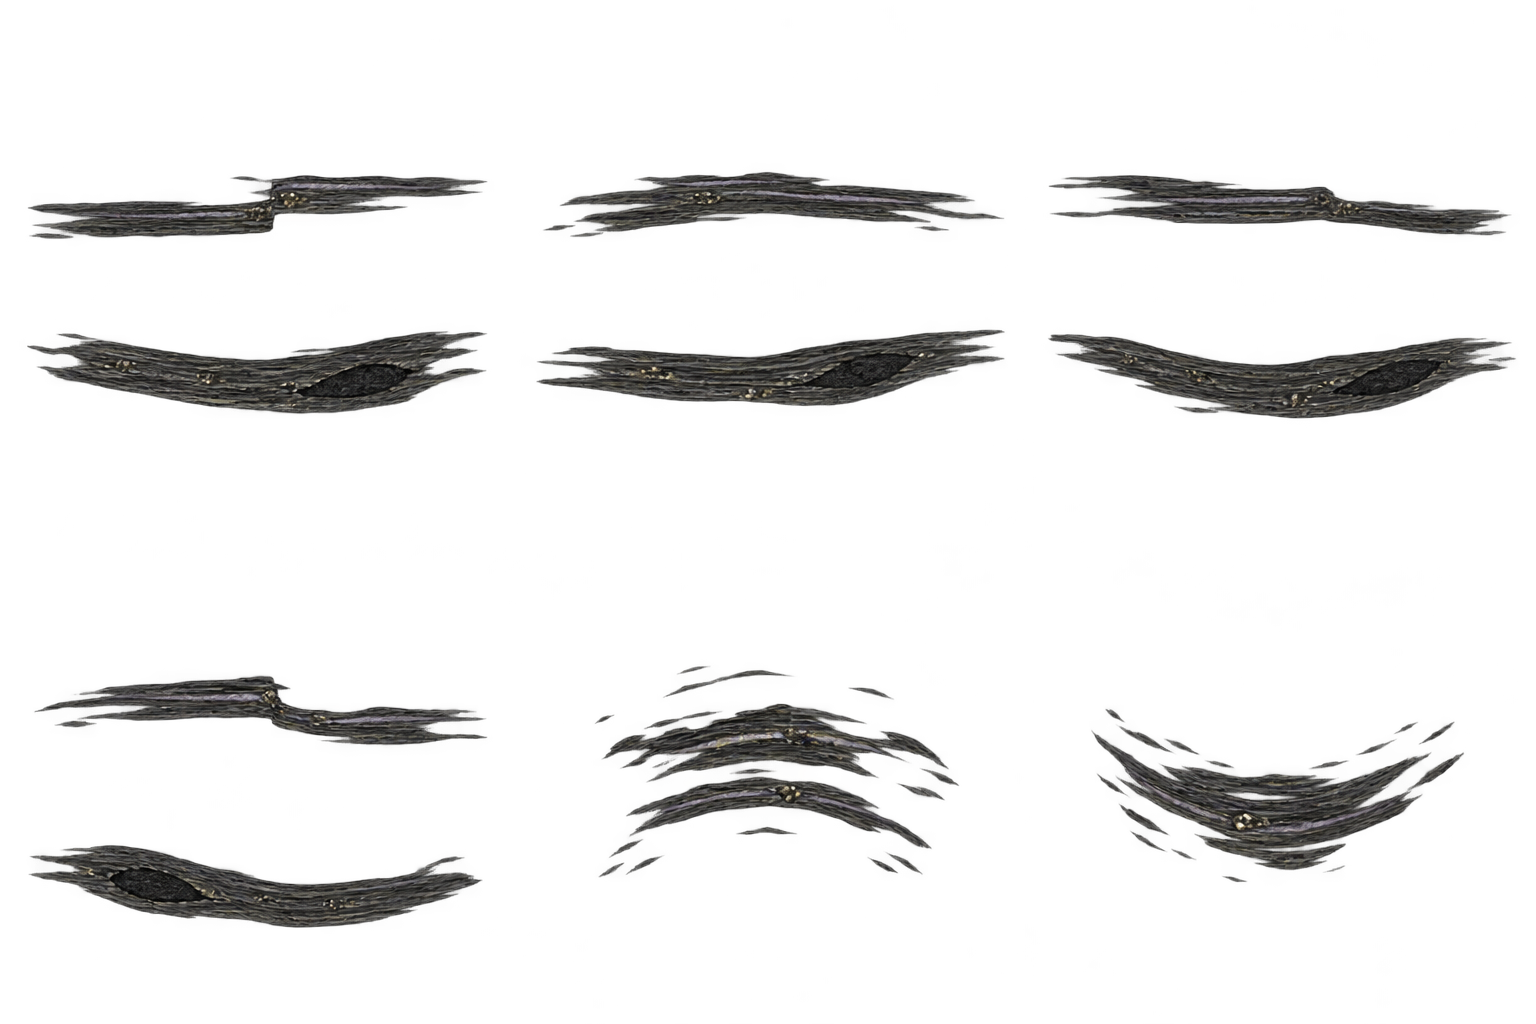
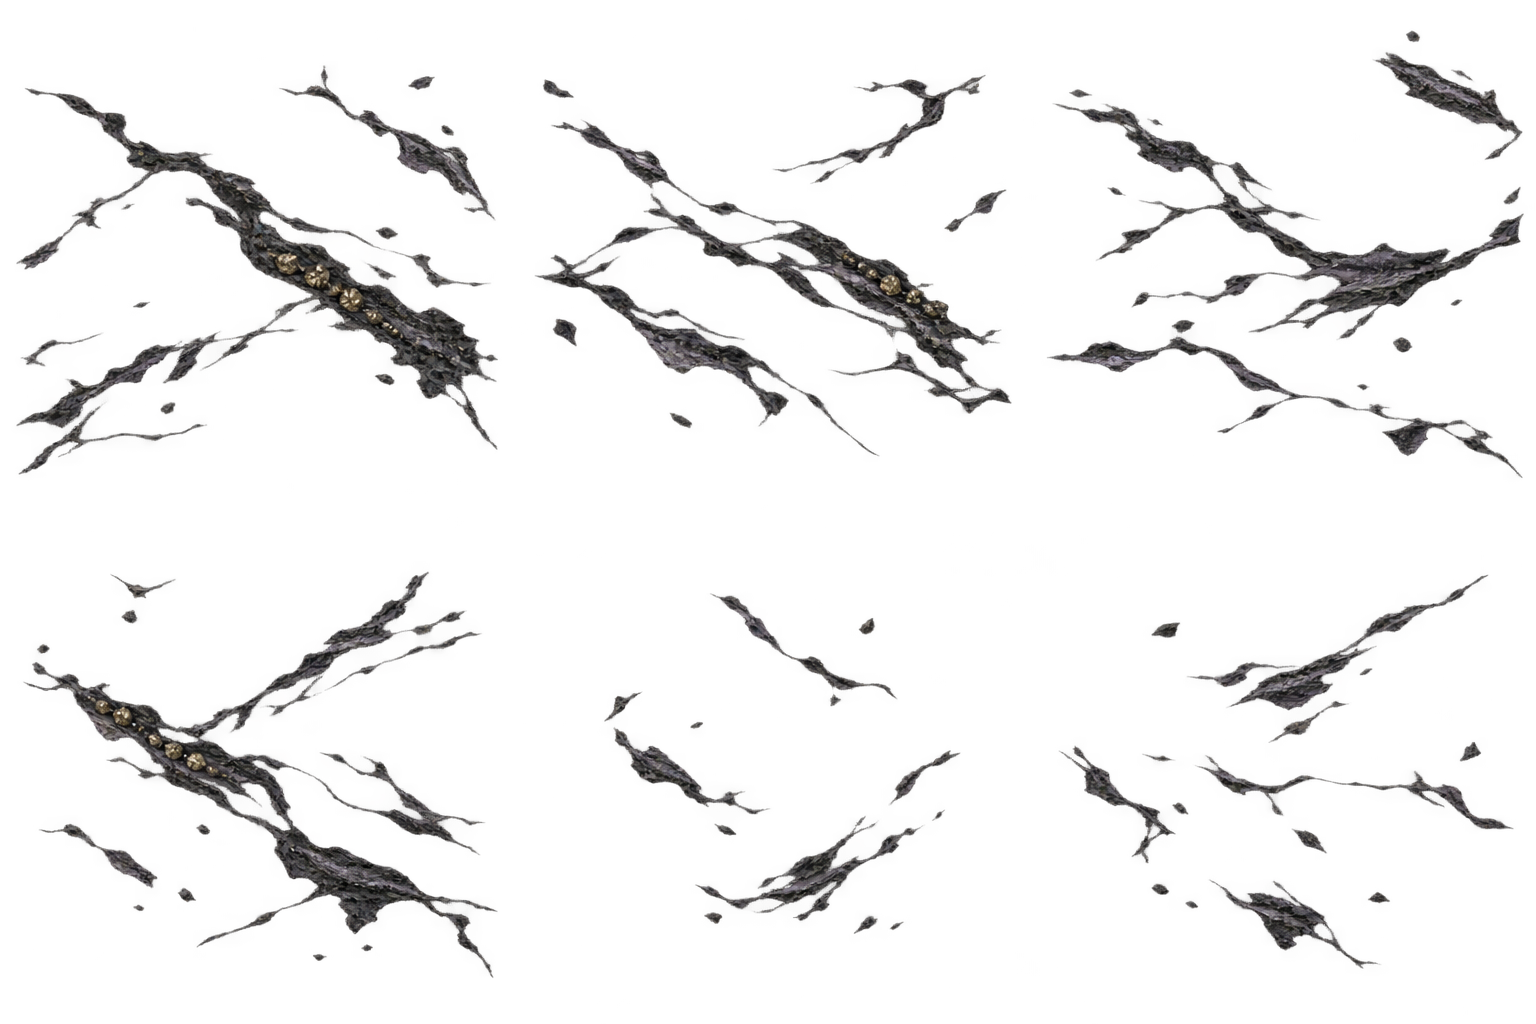
Differentiate black shale from coal seams

diff --git a/art/GEOLOGICAL_MORPHOLOGY.md b/art/GEOLOGICAL_MORPHOLOGY.md
@@ -40,6 +40,9 @@ terminate locally. Top and bottom faces show long, gently curving bed traces rat
 stripes. Include one narrow mineral-matter parting inside the thicker bed and rare dull pyrite
 flecks. Avoid fracture veins, crystalline rims, glossy highlights, and crossing diagonals.
 
+Identity anchor: Coal Measures owns the thick, laterally persistent, low-angle bench silhouette.
+No other dark family may use two broad parallel seams or an uninterrupted mineable band.
+
 ### Ironstone — oolitic and lenticular sedimentary beds
 
 Analogue: shallow-shelf oolitic ironstone in multiple layers interbedded with clastic country rock.
@@ -94,10 +97,17 @@ body. Shader emission must remain a restrained mineral highlight.
 ### Black Shale — fissile organic laminations with sulfide enrichment
 
 Analogue: thinly laminated organic-rich shale containing pyrite/marcasite and trace metals bound to
-organic matter or sulfides. Use many very thin, subparallel dark laminations with small offsets,
-soft folds, and occasional carbon-rich lenses. Add sparse framboidal pyrite specks and only a trace
-of subdued violet-gray metal enrichment following a lamination; purple is an accent, not a vein.
-Avoid bright purple ribbons, crossing fractures, thick black bars, or magical contamination clouds.
+organic matter or sulfides. The visible ore layer represents enriched fissility and cleavage
+surfaces within shale, not the entire shale bed. Use hair-thin, discontinuous, tapered films that
+anastomose, step en echelon, climb as steep slaty cleavage, or crenulate around compacted voids.
+Large transparent gaps must separate individual traces. Add sparse framboidal pyrite specks and
+only a trace of subdued violet-gray enrichment following a film; purple is an accent, not a vein.
+Avoid coal's thick low-angle benches, repeated parallel seams, uninterrupted bands, bright purple
+ribbons, crossing fracture networks, thick black bars, or magical contamination clouds.
+
+Identity anchor: Black Shale owns fine fissility, oblique cleavage, and folded carbonaceous wisps;
+Coal owns stratiform benches. At 32×32, Black Shale must still show tapered broken traces or steep
+fabric rather than reading as a thinner recolor of Coal Measures.
 
 ## Alpha-master acceptance
 

diff --git a/art/block-master-candidates/geology-v4/PROMPTS.md b/art/block-master-candidates/geology-v4/PROMPTS.md
@@ -88,9 +88,11 @@ without being treated as a missing texture.
 
 ### Black Shale
 
-- Variant 0: two near-horizontal lamination packages separated by host, a gentle lower sag with an
-  attached carbon lens, and a tiny fault step above.
-- Variant 1: gently folded laminations with one asymmetric anticline, two offsets, one short subdued
-  violet-gray trace, and two pyrite sites.
-- Variant 2: shallow-dipping laminae cut by a transparent erosional gap and resumed offset, with one
-  attached carbon lens and sparse pyrite along one lamination.
+- Shared exclusion: no thick continuous bench, parallel coal seams, broad mineable band, or full-face
+  horizontal trace. Shale identity comes from fissility, cleavage, compaction, and shear.
+- Variant 0: six to nine hair-thin anastomosing fissility films, each wavy, discontinuous, tapered,
+  and separated by transparent host gaps; two small attached flattened pyrite-framboid trains.
+- Variant 1: three to five narrow, steep oblique slaty-cleavage ribbons broken into separated tapered
+  segments, at most two short relict low-angle wisps, and one tiny pyrite cube with pressure shadows.
+- Variant 2: thin crenulated and sheared carbonaceous wisps draped around two transparent concretion
+  voids, with asymmetric tapering tails, one short stylolite, and pyrite along one fold limb.
